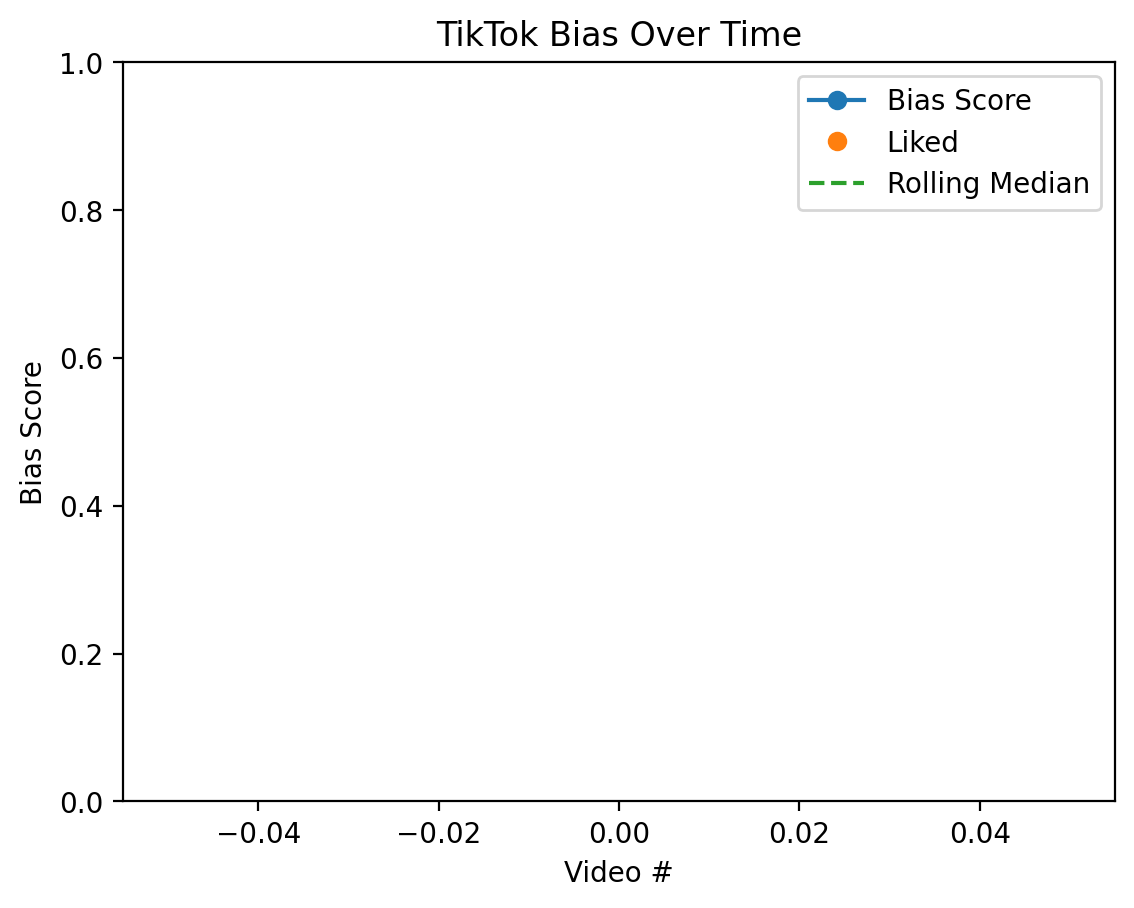
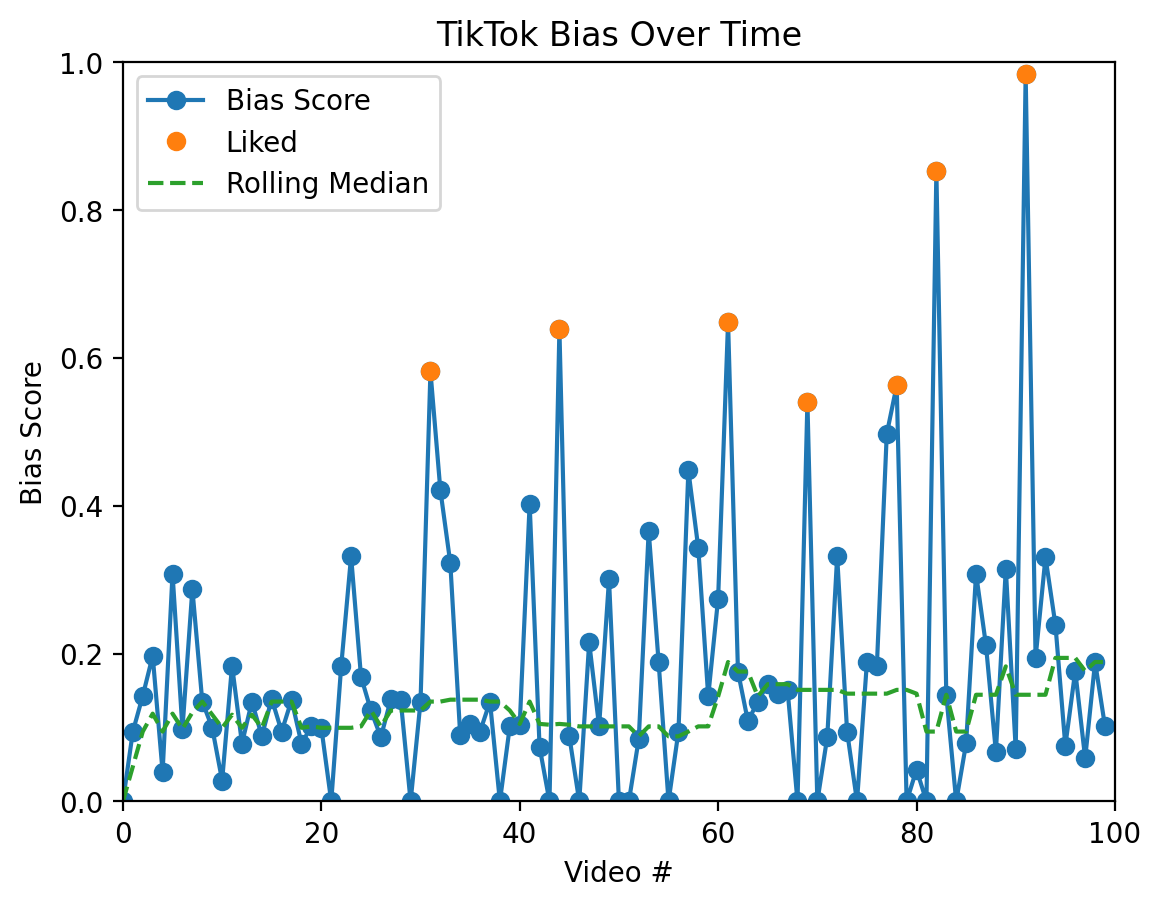
added variable customizable waittimes
- added exponential remapping function

diff --git a/main.py b/main.py
@@ -2,6 +2,7 @@ import time
 import matplotlib.pyplot as plt
 import statistics
 import csv
+import math
 
 from helper import scraper
 from captionBias import Relatedness
@@ -39,25 +40,60 @@ def genericRunner():
             interactFullModel(i, score)
         else:
             interactAsTest(i, score)
+            
+        # pause to allow time to scroll/load
+        time.sleep(2)
 
 def interactAsTest(i, score):
     # -- DECISION MAKING ----
     liked = score > 0.5
     if liked:
-        time.sleep(20)
+        watch_time_value = value_to_watchtime(score, 0.3, 1.5, 30.0)
+        print(f"Watching for {watch_time_value} seconds...")
+        time.sleep(watch_time_value)
         i += 1
-        print("Liking Video")
     else:
         print("Ignoring Video")
         
     # ----- GRAPH UPDATE -----
     updateGraph(i, score, liked)
     
-    
-    time.sleep(1)
     webdriver.scroll()
-    # pause for dramatic effect
-    time.sleep(2)
+    
+def value_to_watchtime(bias_value: float, threshold: float, steepness: float, max_waittime: float) -> float:
+    """
+    Maps an input value (within [threshold, 1.0]) to an output [0, max_waittime] 
+    using an exponential curve.
+    
+    Args:
+        value: The input value to map.
+        threshold: The lower bound of the input range. 
+                   Values below this return 0.
+        steepness: Controls curvature. 
+                   > 0 is convex (starts slow), < 0 is concave (starts fast).
+        max_value: The maximum output value when input is 1.0.
+    """
+    # Safety check to avoid division by zero if threshold is 1.0
+    if threshold >= 1.0:
+        return 0.0 if bias_value < 1.0 else max_waittime
+
+    # Clamp the input so it doesn't go outside [threshold, 1.0]
+    #    This ensures we don't get negative outputs or overshoot max_value.
+    clamped_value = max(threshold, min(1.0, bias_value))
+
+    # Normalize the input to a 0.0 - 1.0 range (t)
+    #    Example: If threshold is 0.5 and input is 0.75, t becomes 0.5.
+    t = (clamped_value - threshold) / (1.0 - threshold)
+
+    # Handle linear case (steepness approx 0)
+    if abs(steepness) < 1e-6:
+        return t * max_waittime
+
+    # Apply the exponential formula
+    #    f(t) = (e^(k*t) - 1) / (e^k - 1)
+    curve = (math.exp(steepness * t) - 1) / (math.exp(steepness) - 1)
+
+    return curve * max_waittime
 
 def interactFullModel():
     return 0
